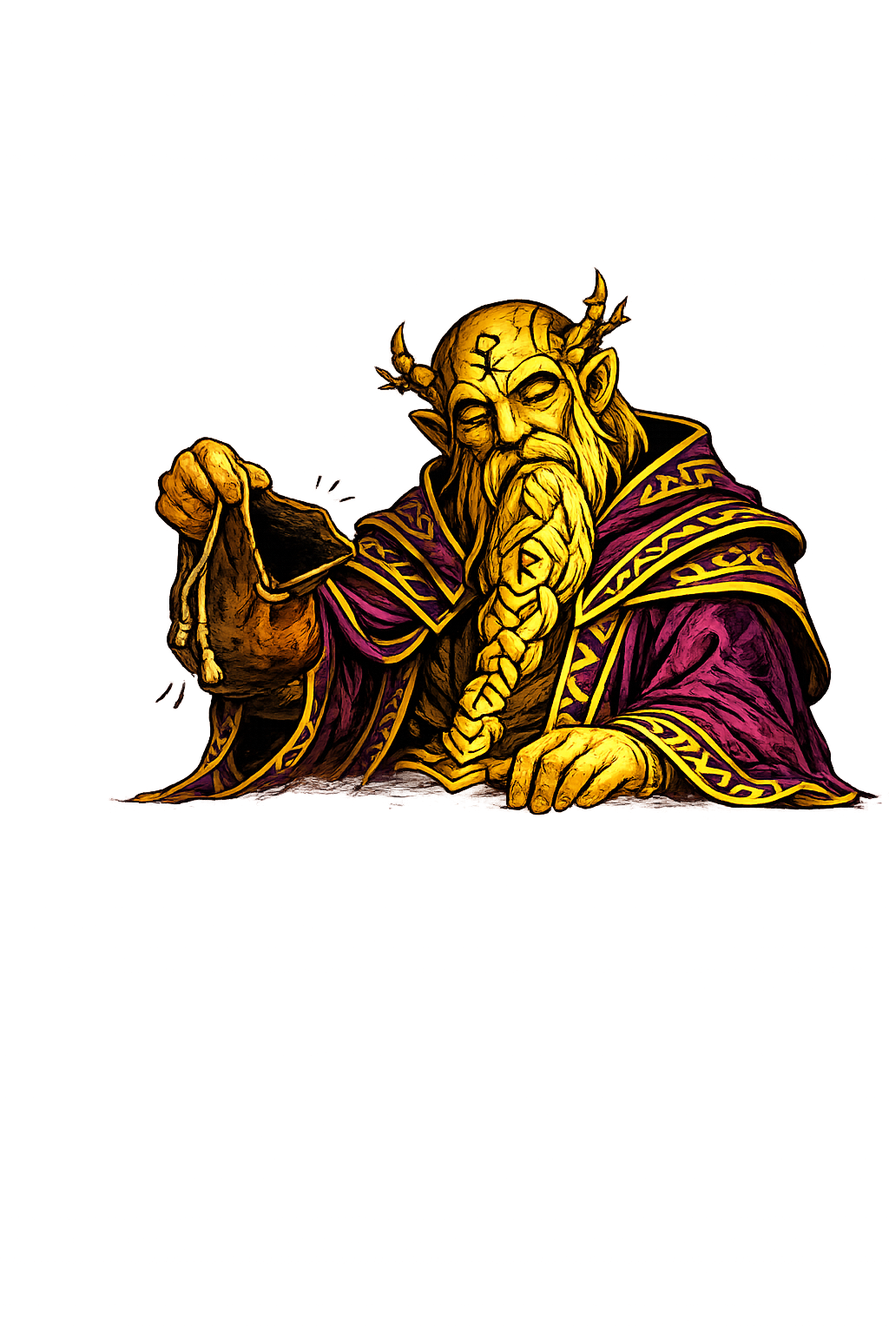
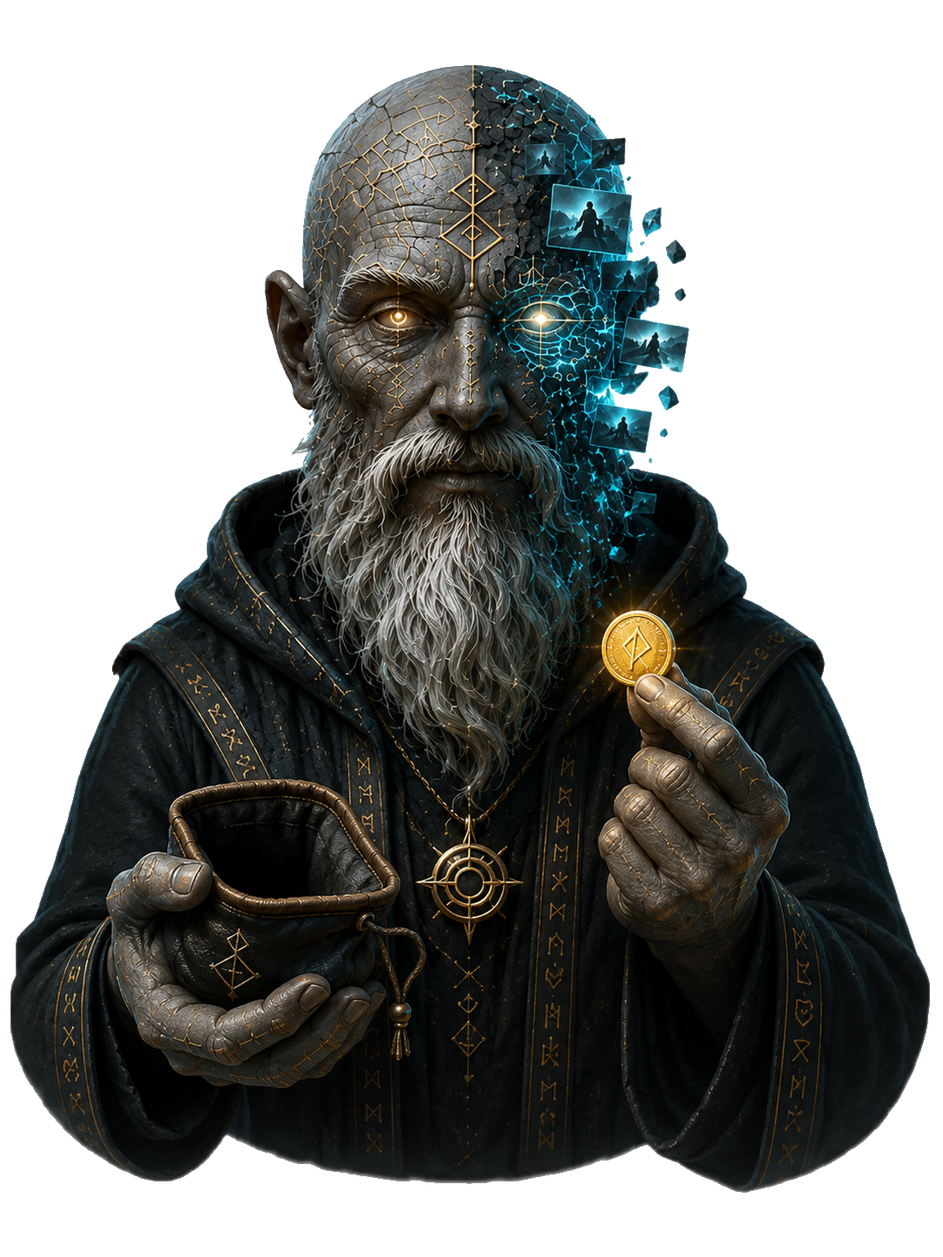
feat(mascot): introduce new Mimir Memory Oracle illustrations
- Replace old single-wizard mascot with new illustrated Memory Oracle
- mimir-idle, mimir-thinking, mimir-empty-finance, mimir-empty-memories updated
- AiChatSheet: new idle in empty state, thinking in streaming bubble
- AiChatSheet: fix swipe-to-dismiss (enabled: mounted vs isOpen)
- AiChatSheet: radial glow, larger image, better text contrast
- TransactionList: switched to new mimir-empty-finance illustration
- Add MASCOT.md with full character system documentation
- All PNGs background-stripped via flood fill + fringe removal

diff --git a/client/src/features/dashboard/components/dashboard/AiChatSheet/index.tsx b/client/src/features/dashboard/components/dashboard/AiChatSheet/index.tsx
@@ -5,13 +5,14 @@ import { getToken } from '@/shared/services/api'
 import MimirIcon from '@/shared/components/ui/MimirIcon'
 import styles from './AiChatSheet.module.css'
 
+const MIMIR_EMPTY_SRC   = '/mimir/mimir-idle.png'
 const MIMIR_THINKING_SRC = '/mimir/mimir-thinking.png'
 
 /**
  * AiChatSheet
  * -----------
  * Bottom-sheet AI асистент MIMIR. Streaming відповіді через SSE.
- * Розпізнає домен питання (фінанси/задачі/рецепти/watchlist) і підвантажує контекст.
+ * Розпізнає домен питання (фінанси/задачі/рецепти/медіа) і підвантажує контекст.
  * Підтримує AI-дії: створення нотаток і квестів через природну мову.
  *
  * Props:
@@ -76,7 +77,7 @@ const AiChatSheet: React.FC<AiChatSheetProps> = ({ isOpen, onClose }) => {
   const inputRef   = useRef<HTMLTextAreaElement>(null)
   const abortRef   = useRef<AbortController | null>(null)
 
-  useSwipeToDismiss(onClose, { enabled: isOpen, bodyRef, overlayRef, sheetRef })
+  useSwipeToDismiss(onClose, { enabled: mounted, bodyRef, overlayRef, sheetRef })
   useModalHistory(onClose, isOpen)
 
   useEffect(() => {
@@ -220,8 +221,8 @@ const AiChatSheet: React.FC<AiChatSheetProps> = ({ isOpen, onClose }) => {
         <div ref={bodyRef} className={styles.body}>
           {messages.length === 0 ? (
             <div className={styles.empty}>
-              <img src={MIMIR_THINKING_SRC} alt="Mimir" className={styles.emptyMimir} draggable={false} />
-              <p className={styles.emptyText}>Запитай мене про свої фінанси,<br/>задачі, рецепти або watchlist.</p>
+              <img src={MIMIR_EMPTY_SRC} alt="Mimir" className={styles.emptyMimir} draggable={false} />
+              <p className={styles.emptyText}>Я допоможу знайти відповідь у твоїх фінансах,<br/>задачах, рецептах і медіа.</p>
               <div className={styles.suggestions}>
                 {SUGGESTIONS.map(s => (
                   <button

diff --git a/client/src/features/dashboard/components/dashboard/AiChatSheet/AiChatSheet.module.css b/client/src/features/dashboard/components/dashboard/AiChatSheet/AiChatSheet.module.css
@@ -103,8 +103,29 @@
   align-items: center;
   justify-content: center;
   gap: 12px;
-  padding: 20px 0;
+  padding: 8px 0 20px;
+  position: relative;
 }
+
+.empty::before {
+  content: '';
+  position: absolute;
+  top: 10%;
+  left: 50%;
+  transform: translateX(-50%);
+  width: 260px;
+  height: 260px;
+  background: radial-gradient(
+    circle at 50% 48%,
+    rgba(74, 170, 210, 0.12) 0%,
+    rgba(74, 170, 210, 0.05) 28%,
+    transparent 58%
+  );
+  pointer-events: none;
+  z-index: 0;
+}
+
+.empty > * { position: relative; z-index: 1; }
 
 .emptyIcon {
   color: var(--accent);
@@ -112,15 +133,16 @@
 }
 
 .emptyMimir {
-  height: 140px;
-  width: auto;
+  width: clamp(190px, 45vw, 250px);
+  height: auto;
   object-fit: contain;
   user-select: none;
   animation:
     mimirEnterChat 0.6s cubic-bezier(0.34, 1.56, 0.64, 1) both,
-    mimirFloatChat 2.4s ease-in-out infinite 0.6s,
-    eyeGlowChat 1.8s ease-in-out infinite;
-  filter: drop-shadow(0 6px 16px rgba(0, 0, 0, 0.5));
+    mimirFloatChat 2.4s ease-in-out infinite 0.6s;
+  filter:
+    drop-shadow(0 0 14px rgba(65, 180, 220, 0.16))
+    drop-shadow(0 10px 22px rgba(0, 0, 0, 0.42));
 }
 
 .thinkingMimir {
@@ -163,7 +185,7 @@
 .emptyText {
   font-family: var(--font-ui);
   font-size: 13px;
-  color: var(--text3);
+  color: var(--text2);
   text-align: center;
   line-height: 1.6;
   margin: 0;

diff --git a/BACKLOG.md b/BACKLOG.md
@@ -372,7 +372,7 @@ PlanTab реальні кнопки → redirect на WayForPay hosted page. `/p
 - [ ] **Space тижневий дайджест** — backend cron (щонеділі) → push нотифікація: "Japan Trip: 3 задачі, 2 спогади, 12 000₴ витрат цього тижня"
 - [x] **ШІ-асистент per Space** — кнопка в хедері `SpaceDetail` → bottom sheet → SSE чат; `POST /api/ai/space-chat` приймає `spaceId` + `messages[]`; system prompt залежить від `space.type` (vehicle → механік, trip → travel planner, project → PM); Claude Haiku; контекст: назва/тип + останні 5 подій/задач/нотаток
 
-### ✅ Dashboard + UI polish (2026-07-13)
+### ✅ Dashboard + UI polish (2026-07-13, 2026-07-21)
 
 - **HeroCard — фінанс блок:** видалено bar chart; замінено на stat strip (Сьогодні / 7 днів / Пік з назвою дня). Фон `var(--accent-soft)`. Контраст тексту налагоджено по всіх 6 темах: noir — `var(--surface)` фон як у решти блоків; pixel — білий текст; arctic/japan — dark text overrides; cyber — `var(--text)` для лейблів; velvet — золота ₴ і peak accent.
 - **F1 RaceCountdownStrip — баннер:** виправлено `LIGHT_THEMES`: arctic видалено (баннер dark), japan залишено (баннер light). `new Set(['pixel', 'japan'])`.
@@ -381,6 +381,16 @@ PlanTab реальні кнопки → redirect на WayForPay hosted page. `/p
 - **SpacesStrip — назва картки:** `-webkit-line-clamp` змінено з 1 на 2 рядки.
 - **SpacesStrip — створення простору:** кнопка "Додати" тепер відкриває inline sheet (template → form) замість переходу на `/profile?tab=spaces`. Реалізовано через `createPortal(…, document.body)` щоб уникнути overflow/transform stacking context. `useSwipeToDismiss` для drag-to-close.
 - **AchievementsTab — XP display:** змінено з `"60 рун · до рівня 3: 20"` на `"60 / 2000 рун"` (game-style). `score.earned` — більший і яскравий (`.heroSubCurrent`), total — приглушений. Шрифт `var(--font-mono)`.
+
+### ✅ HeroCard, SpacesStrip, Memories, Profile polish (2026-07-21)
+
+- **HeroCard redesign:** без бюджету — 30/70 split: ліво баланс + "today chip" (витрачено / денний бюджет), право SVG area chart (7 днів). З бюджетом — full-width: progress bar + 3 стати. Видалено bar chart і `upcomingTotal`/`upcomingCount` відображення з картки.
+- **SpacesStrip — 85px avatars:** при `f1Enabled=false` аватари в SpacesStrip рендеряться через клас `.avatarLarge` (85px замість 64px) — більше місця без F1 блоку.
+- **Profile readability:** username і email в hero-картці профілю отримали колір `var(--text2)` замість `var(--text3)` — кращий контраст.
+- **Cyber theme surface:** `--surface` змінено з `#0a1628` на `#0e1828` — злегка тепліший, менш агресивний.
+- **memoriesStore `_deletingIds`:** виправлена race condition — при паралельному `deleteMemory` + `fetchMemories` список міг показати щойно видалений елемент. `_deletingIds: Set<string>` фільтрує результати fetch.
+- **Achievements — UX cleanup:** видалено тестову кнопку "Unlock All"; celebration modal отримав плавніший enter/exit; картки ачівок відсортовані по категоріям.
+- **DeadlineSheet redesign:** перероблено з vertical radio-list на pill-chips (PillSelector) для вибору часового інтервалу нагадування.
 
 ### ✅ Типізовані Space-вʼюхи (2026-07-11)
 
@@ -427,6 +437,58 @@ PlanTab реальні кнопки → redirect на WayForPay hosted page. `/p
 
 ---
 
+---
+
+## Функціональний аудит сторінок (2026-07-21)
+
+> Відомі UX-прогалини і шорсткості по кожній сторінці після аудиту коду.
+
+### Dashboard
+- **HeroCard — баланс vs витрати:** `displayed` анімує `balance` (топап − витрати всіх часів), але лейбл "цей місяць" — семантичний розрив. Без бюджету юзер бачить загальний баланс але думає що це місячна витрата.
+- **FAB — немає "Спогад":** в expandable FAB є Витрата / Квест / Покупка / Нотатка, але немає швидкого додавання спогаду — часта дія в поїздках.
+- **MimirHint — нема fallback:** якщо `useMimirAiHint` ще завантажується і `welcomeSeen=true`, між першим рендером і відповіддю AI — порожній mimirFloat (невидима висота 0 але DOM-елемент є).
+
+### Finance
+- **patchTransaction не відправляє на бекенд:** `patchTransaction` оновлює локальний стор але `authFetch` не викликається — зміни description/amount через inline редагування не зберігаються при наступному fetchTransactions.
+- **Кеш sessionStorage обмежений 200 транзакціями:** якщо юзер робить `fetchTransactions(month)` для різних місяців — кожен раз fetchuje знову без кешу, але і не показує stale-стан.
+- **addTopup/addExpense — немає error rollback:** якщо POST /api/transactions повертає помилку, транзакція лишається у стані з temp UUID і syncStatus 'error' — немає відкату.
+
+### Sprint (Квести)
+- **AddSprintItemModal deadline chips:** після рефакторингу на inline chips (commit e262113), DeadlineSheet видалено і дата/час/нагадування — inline в форму. Перевірити що `draftTime` правильно ініціалізується при відкритті форми для існуючих задач.
+- **Drag-to-reorder (useSprintDrag):** не реалізовано для задач в SpaceDetail — там порядок фіксований по `createdAt`.
+- **TrashBin soft-delete:** TTL 24г на бекенді — юзер може не встигнути відновити якщо не знає про кошик.
+
+### Memories
+- **fetchRelated:** `GET /api/memories/:id/related` — незрозуміло що повертає (за тегами? локацією?). Не використовується в жодному компоненті крім виклику в store.
+- **MemoryMap — пустий стан:** якщо у юзера 0 спогадів і 0 планів — карта показує глобус без пінів, нема underlay hint.
+- **EditMemoryModal `withProfiles`:** при редагуванні зображення `withProfiles` не передається якщо поле не чіпали — перевірити що PATCH не скидає учасників.
+
+### Spaces
+- **SpaceDetailScreen — дублювання транзакцій DOM:** спагетті-рендер — spaceTx рендерується двічі: один раз для `pet/home` (рядки 896–931), другий раз для generic spaces (рядки 1202–1237). Якщо `type === 'pet'` але є і модуль 'finance' — покаже обидва блоки.
+- **SpacesStrip — `general` тип відсутній в TYPE_OPTIONS:** форма дозволяє вибрати `shared/trip/vehicle/home/pet/sports`, але `SPACE_TYPE_CONFIG` має `blank`. Якщо space.type = 'general' — `cfg` = undefined → `?? SPACE_TYPE_CONFIG['blank']` рятує, але тип 'general' недоступний при створенні.
+- **TripSpaceView — без quick actions:** на відміну від Vehicle/Home/Pet — TripSpaceView не має власних quick action кнопок (задачі, нотатки, спогади); для trip-space потрібно використовувати generic actions block — але він захований для `type !== 'vehicle' && type !== 'home' && type !== 'pet'`... Перевірити: `trip` попадає під generic блок (рядок 944 умова).
+
+### Recipes
+- **AI генератор — gate через PaywallGate:** кнопка AI в FAB recipes приховується за PaywallGate, але при натисканні без плану — поведінка залежить від `useCanUseFeature` — перевірити що показується UpgradePrompt, а не silent fail.
+- **RecipeDetail "Шеф":** ChefChatSheet не закривається свайпом якщо юзер свайпає по тексту чату (стандартна проблема SSE+scroll).
+
+### Watchlist
+- **Книги (Books):** тогл в профілі disabled, placeholder при відкритті табу — фактично повністю нереалізовано (UI).
+- **WatchlistStatsSheet:** рахує "реальну тривалість" через TMDB, але для anime/books — логіка тривалості інша (серія anime ≠ серія серіалу).
+
+### Profile
+- **ChangelogSheet workflow:** задокументовано що потрібно дописувати `CHANGELOG` перед кожним пушем — на практиці часто пропускається. Немає валідації в pre-push hook.
+- **MeAccount / export:** JSON export включає всі колекції але не включає VehicleEvent, HomeEvent, PetEvent — нові моделі після фази legal.
+
+### Achievements
+- **Локальний стор:** досягнення зберігаються тільки в localStorage — при логіні на новому пристрої або clearing storage всі досягнення скидаються. Бекенд-синхронізація відсутня.
+- **useAchievementProgress:** читає дані з кількох stores синхронно — при першому рендері stores ще порожні, прогрес = 0. Може викликати false unlock при першому mount (stores ще не завантажили дані, потім data load → прогрес стрибає).
+
+### F1
+- **OpenF1 polling на `/f1/live`:** якщо гонки немає (between seasons) — polling idle з помилками 404. Перевірити graceful handling.
+
+---
+
 ## Технічний борг — залишок
 
 | Задача | Статус |
@@ -434,4 +496,9 @@ PlanTab реальні кнопки → redirect на WayForPay hosted page. `/p
 | Верифікація email | ✅ Закрито (mimir-hud.tech + Resend) |
 | MongoDB M10+ | 🟢 Некритично поки < 100 юзерів |
 | Семантичні токени (міграція CSS) | ✅ Закрито — 15 нових токенів, 94 заміни у 37 файлах |
-| Усі інші | ✅ Закрито |
+| `patchTransaction` — немає authFetch на бекенд | 🔴 Баг — локальні зміни губляться після fetchTransactions |
+| MeAccount export — VehicleEvent/HomeEvent/PetEvent | 🟡 Пропуск після Phase 3A |
+| Achievements localStorage — немає бекенд sync | 🟡 Ризик при зміні пристрою |
+| ChangelogSheet — ручний процес, немає pre-push hook | 🟡 Процесний борг |
+| SpaceDetail — дублювання tx-блоку для pet/home | 🟡 Код-борг (не баг для поточних юзерів) |
+| Usі інші | ✅ Закрито |

diff --git a/MASCOT.md b/MASCOT.md
@@ -1,0 +1,114 @@
+# MIMIR — Mascot System
+
+## Brand Formula
+
+> **Thought finds the path. Memory gives it meaning. Drink deep.**
+
+Один Мімір об'єднує обидві функції:
+- **Thought** — допомагає структурувати, планувати, діяти
+- **Memory** — зберігає контекст, пам'ятає, пов'язує
+- **Drink deep** — філософія продукту
+
+---
+
+## Персонаж: Memory Oracle
+
+Єдиний маскот застосунку — **Mimir: Memory Oracle**.
+
+Не помічник, не чат-бот. Він:
+- джерело знання і контексту
+- присутній повсякденно — у підказках, empty states, чаті
+- з'являється в масштабнішій формі у кульмінаційні моменти
+
+Інтенсивність присутності залежить від ситуації — не інший персонаж, а та сама сутність у різних вимірах.
+
+---
+
+## Два режими присутності
+
+### Повсякденний Mimir
+
+Для:
+- підказок і hint-bubbles
+- AI чату
+- empty states
+- onboarding
+- повідомлень
+- успіхів і помилок
+- рекомендацій
+
+### Ceremonial Mimir
+
+Для:
+- нових рівнів
+- великих досягнень
+- Yearbook і річних підсумків
+- глибоких системних інсайтів
+- важливих переходів у продукті
+
+> Не інший персонаж — більш масштабна й потойбічна форма того самого Oracle.
+
+---
+
+## Стани (поточні PNG)
+
+| Файл | Де використовується |
+|------|---------------------|
+| mimir-idle.png | MimirHint (default) |
+| mimir-thinking.png | AiChatSheet (loading) + MimirHint |
+| mimir-writing.png | MimirHint + Onboarding |
+| mimir-pointing.png | MimirHint + Onboarding + empty states |
+| mimir-excited.png | MimirHint (dashboard-welcome) |
+| mimir-success.png | MimirHint |
+| mimir-shrug.png | MimirHint |
+| mimir-alarmed.png | MimirHint |
+| mimir-sleeping.png | MimirHint |
+| mimir-celebrating.png | MimirHint + Onboarding |
+| mimir-skeptical.png | MimirHint |
+| mimir-welcome.png | Onboarding крок 1 + крок 5 |
+| mimir-location.png | Onboarding крок 2 |
+| mimir-notifications.png | Onboarding крок 3 |
+| mimir-wise.png | MeMimir (режим wise) |
+| mimir-balaghur.png | MeMimir (режим witty) |
+| mimir-cynical.png | MeMimir (режим dark) |
+| mimir-paralax-dark.png | MeMimir (фон, темні теми) |
+| mimir-paralax-light.png | MeMimir (фон, japan/pixel) |
+| mimir-empty-finance.png | TransactionList (empty state) |
+| mimir-empty-memories.png | memories/index.tsx (empty state) |
+| mimir-empty-watchlist.png | watchlist + WatchlistGrid (empty state) |
+
+---
+
+## Нові ілюстрації (в роботі)
+
+Папка `public/mascot/` — нові PNG від Джонні, поступова заміна старих.
+
+| Файл | Статус |
+|------|--------|
+| huginn/huginn-thinking.png | є, фон прибрано |
+| huginn/huginn-idle.png | є, фон прибрано |
+
+> **Концепція двох воронів (Huginn + Muninn)** — відкладена на майбутнє. Зберігається як ідея, не активна задача.
+
+---
+
+## Дизайнерське правило
+
+Мімір не повинен просто стояти поряд із текстом. Він має виконувати одну з трьох функцій:
+
+1. Пояснювати, що сталося.
+2. Показувати, що робити далі.
+3. Надавати сцені характер або значення.
+
+**Якщо він не робить нічого з цього — це декоративний шум.**
+
+---
+
+## Conceptual Structure
+
+| Element      | Role                                           |
+|--------------|------------------------------------------------|
+| MIMIR        | The world, the system, the deep source         |
+| Mimir        | Memory Oracle — думка, пам'ять, глибина        |
+| The Well     | Achievement map і занурення в накопичене життя |
+| The Monolith | Вертикальний прогрес і рівні                   |

diff --git a/client/src/shared/store/CLAUDE.md b/client/src/shared/store/CLAUDE.md
@@ -112,6 +112,70 @@ interface AchievementsState {
 
 ---
 
+---
+
+## memoriesStore (`features/memories/store/memoriesStore.ts`)
+
+```ts
+// persist: НЕ персистується
+interface MemoriesState {
+  memories: Memory[]
+  isLoading: boolean
+  _deletingIds: Set<string>   // ← race-condition guard
+  // actions
+  fetchMemories(): Promise<void>
+  addMemory(m: Omit<Memory, 'id' | 'createdAt' | 'userId'>): Promise<string>
+  updateMemory(id: string, updates: Partial<...>): Promise<void>
+  deleteMemory(id: string): Promise<void>
+  addPhoto(memoryId, photo): Promise<void>
+  deletePhoto(memoryId, photoId): Promise<void>
+  setCover(memoryId, photoUrl): Promise<void>
+  updatePhoto(memoryId, photoId, updates): Promise<void>
+  fetchRelated(memoryId): Promise<Memory[]>
+}
+```
+
+**`_deletingIds` — race condition guard:**
+Коли `deleteMemory` викликається і потім одразу стартує `fetchMemories`, новий fetch може повернути ще-не-видалений елемент з бекенду (реплікаційна затримка або повільна відповідь).
+`_deletingIds: Set<string>` містить id елементів що знаходяться в процесі DELETE. `fetchMemories` фільтрує результати через `filter(m => !deletingIds.has(m.id))`. Після завершення DELETE (в `finally`) id видаляється з Set.
+Шаблон:
+```ts
+deleteMemory: async (id) => {
+  set(s => ({ memories: s.memories.filter(m => m.id !== id), _deletingIds: new Set([...s._deletingIds, id]) }))
+  try { await authFetch(`/api/memories/${id}`, { method: 'DELETE' }) }
+  finally { set(s => { const ids = new Set(s._deletingIds); ids.delete(id); return { _deletingIds: ids } }) }
+}
+```
+
+---
+
+## financeStore (`features/finance/store/financeStore.ts`)
+
+```ts
+// persist: sessionStorage 'hud-finance-v1' (тільки дефолтний запит без фільтру)
+interface FinanceState {
+  balance: number
+  transactions: Transaction[]
+  syncStatus: 'local' | 'syncing' | 'synced' | 'error'
+  // actions
+  fetchTransactions(month?: string): Promise<void>
+  addTopup(amount, desc, incomeCategory?, spaceId?): void
+  addExpense(amount, desc, category?, tripMemoryId?, spaceId?, subcategory?, date?): void
+  deleteTransaction(id): void
+  renameTransaction(id, title): void
+  patchTransaction(id, patch): void
+  tagTripExpenses(ids, tripMemoryId): void
+  setSyncStatus(s): void
+}
+```
+
+- Optimistic updates для всіх мутацій: UI оновлюється одразу, потім синхронізується з бекендом
+- Транзакції кешуються в `sessionStorage` (max 200 записів у пам'яті)
+- `fetchTransactions(month)` — якщо передано місяць, кеш НЕ оновлюється (фільтрований результат)
+- `tagTripExpenses` — bulk PATCH: optimistic update + паралельний PATCH для кожного id (fire-and-forget з `.catch(() => {})`)
+
+---
+
 ## Правила
 
 - Для нового store в `shared/` — тільки якщо він потрібен у 5+ різних фічах
